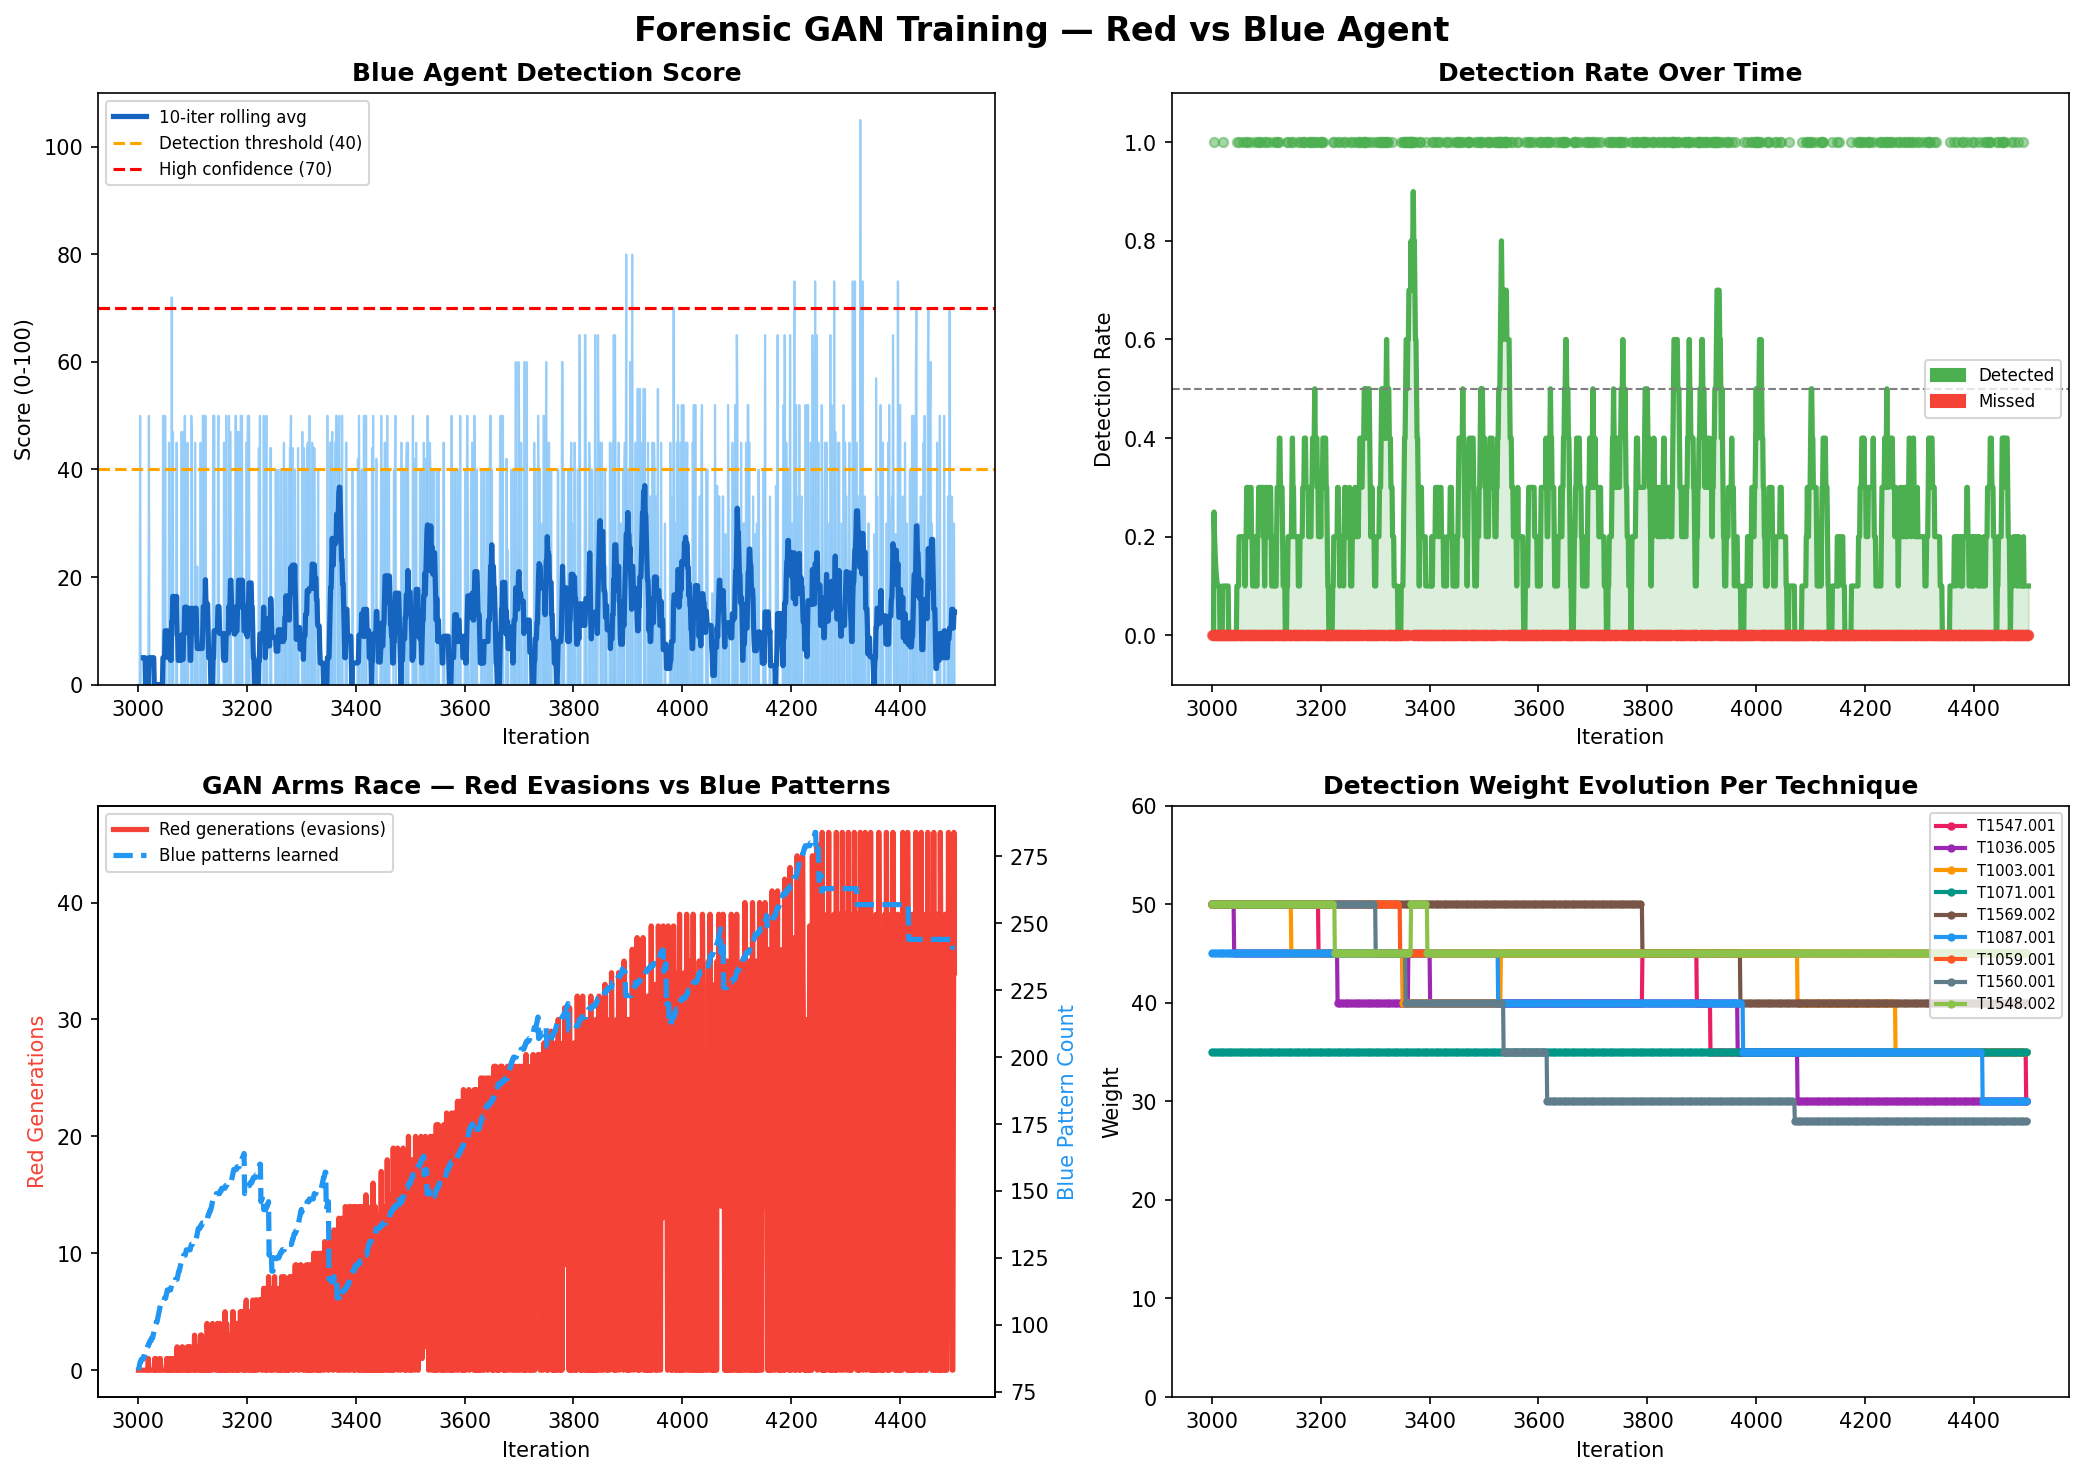
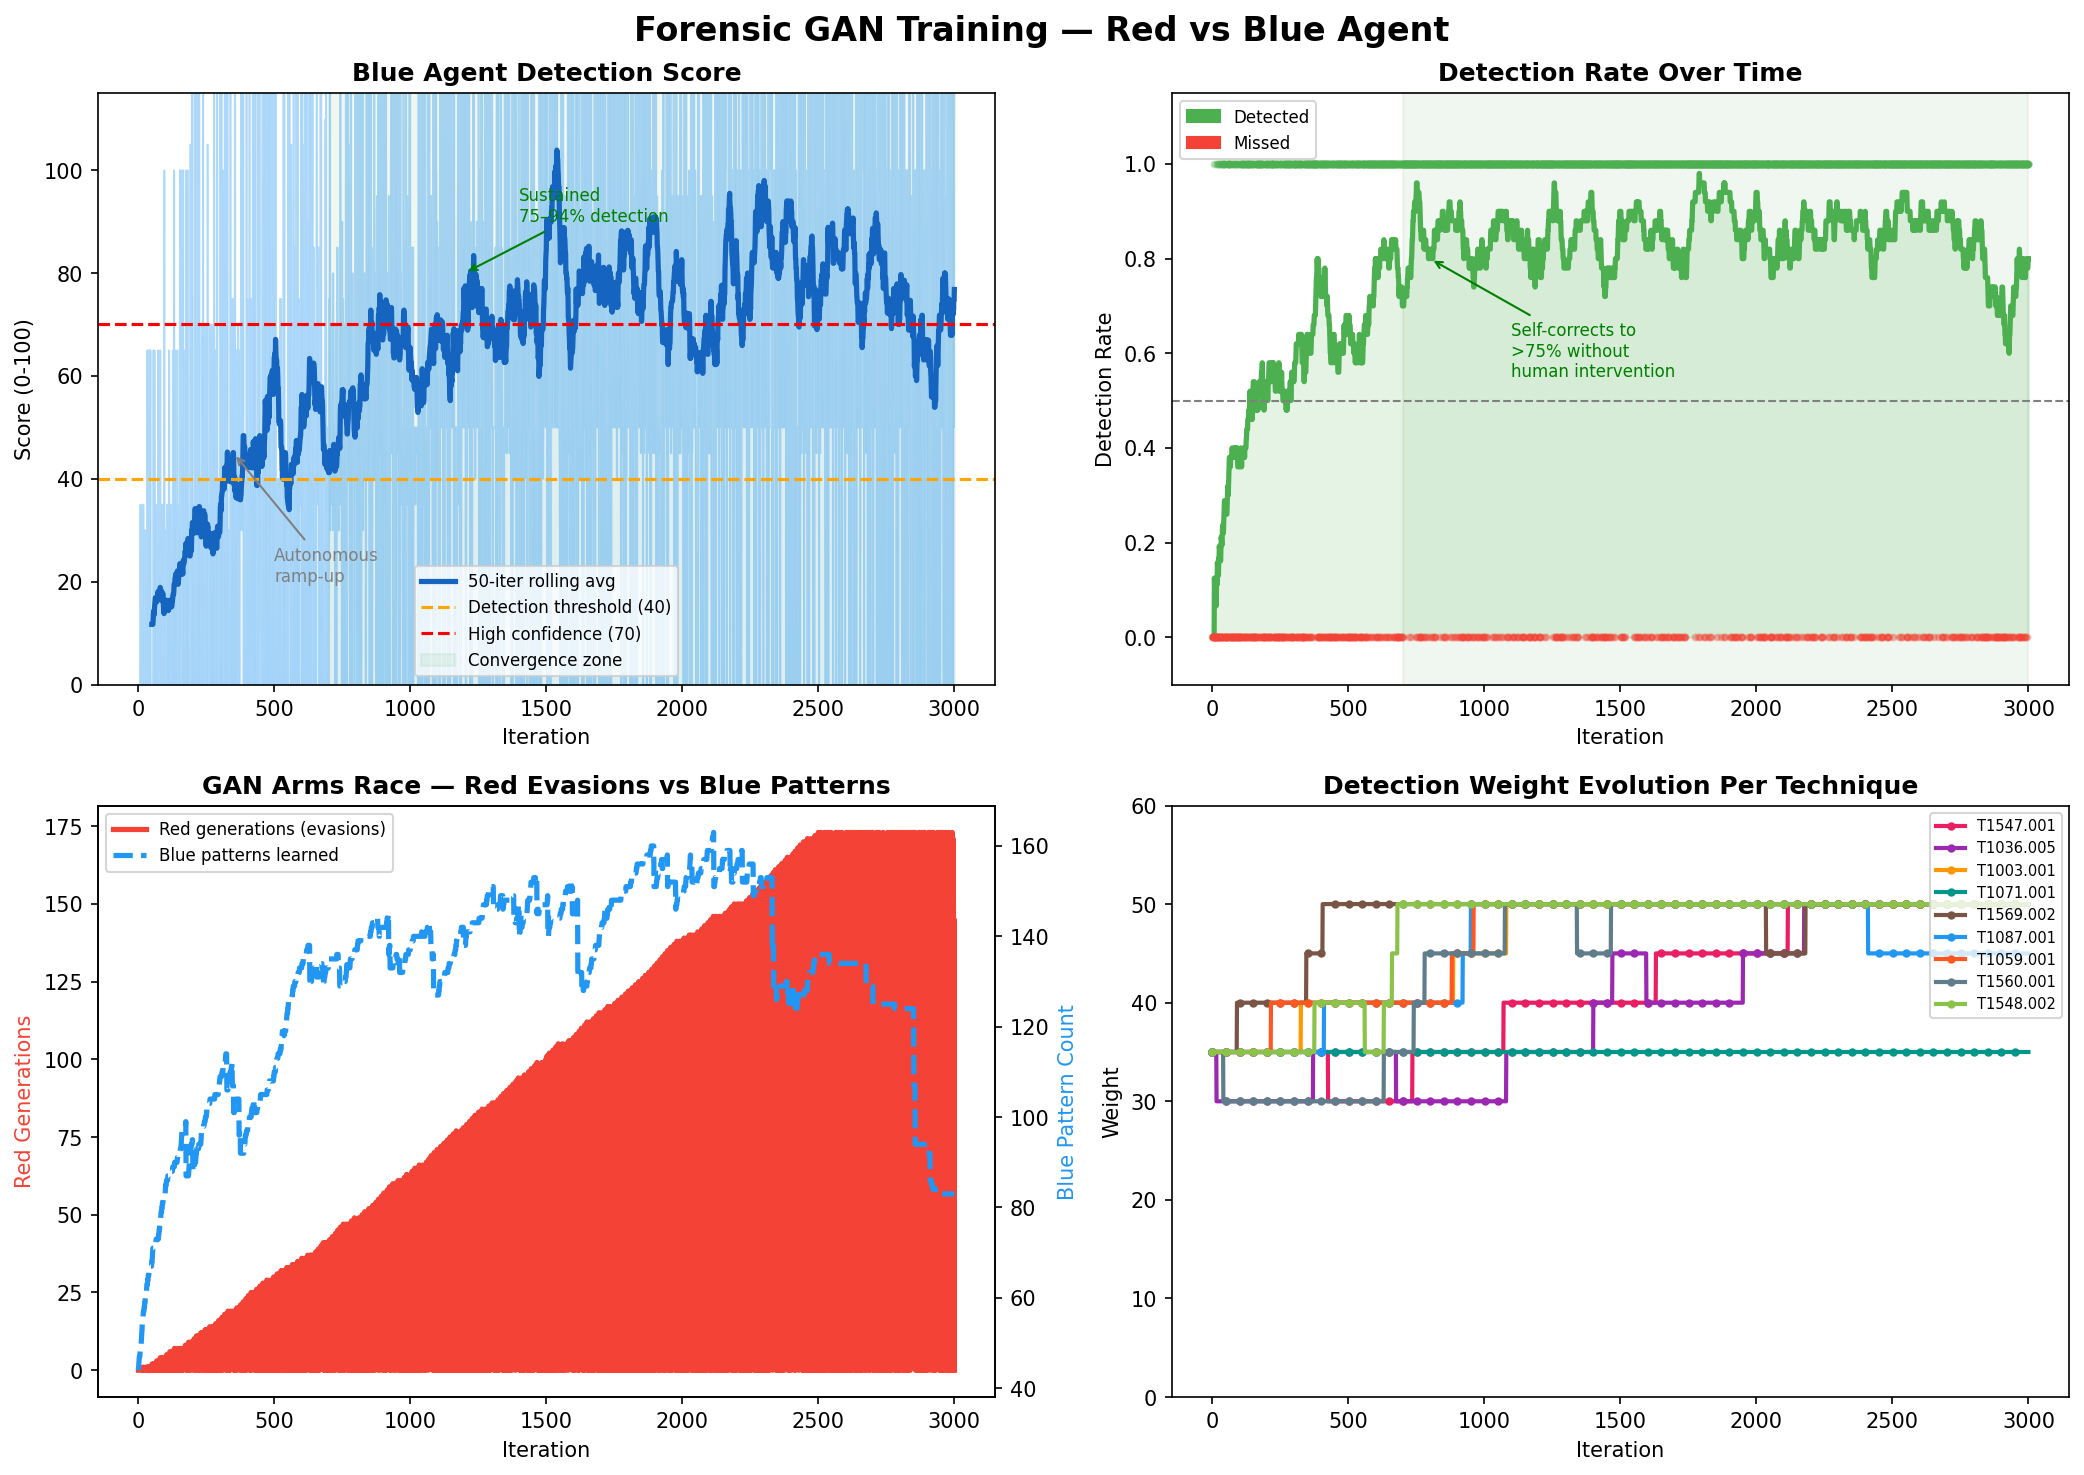
replace training graph with full 0-3000 arc showing autonomous convergence
Previous graph only covered iterations 3000-4500 (end of good window +
cliff edge). New graph uses brain_state.json.bak to show the full rise
from ~40% detection to sustained 75-94%, with annotations for the
convergence zone and self-correction. Adds regen_graphs.py so this can
be reproduced.

diff --git a/custom-agent/regen_graphs.py b/custom-agent/regen_graphs.py
@@ -1,0 +1,212 @@
+"""
+Regenerate training_graphs.png from brain_state.json.bak.
+
+Uses the first 3000 iterations, which show the full arc from low detection
+through autonomous convergence to sustained 75-94%. Annotates the two key
+inflection points: early ramp-up and the convergence zone.
+"""
+
+import json
+import os
+import sys
+
+import matplotlib.patches as mpatches
+import matplotlib.pyplot as plt
+import numpy as np
+
+_SCRIPT_DIR = os.path.dirname(os.path.abspath(__file__))
+_REPO_ROOT  = os.path.dirname(_SCRIPT_DIR)
+_REPORTS    = os.path.join(_REPO_ROOT, "reports")
+_BAK        = os.path.join(_REPORTS, "brain_state.json.bak")
+_OUT        = os.path.join(_REPORTS, "training_graphs.png")
+
+SLICE_END   = 3000   # only show the convergence story; skip post-collapse tail
+ROLLING_WIN = 50     # wider window for cleaner signal at this scale
+
+
+def load_metrics(path, max_iter=SLICE_END):
+    with open(path) as f:
+        state = json.load(f)
+    m = state["metrics"]
+
+    iters  = m["iterations"]
+    cutoff = next((i for i, v in enumerate(iters) if v > max_iter), len(iters))
+
+    def trim(key):
+        return m[key][:cutoff]
+
+    weights = {}
+    for tech, wlist in m.get("weights", {}).items():
+        weights[tech] = wlist[:cutoff]
+
+    return {
+        "iterations":       trim("iterations"),
+        "blue_scores":      trim("blue_scores"),
+        "detection_flags":  trim("detection_flags"),
+        "red_generations":  trim("red_generations"),
+        "blue_pattern_counts": trim("blue_pattern_counts"),
+        "weights":          weights,
+    }
+
+
+def rolling_avg(values, window):
+    kernel = np.ones(window) / window
+    return np.convolve(values, kernel, mode="valid")
+
+
+def rolling_rate(flags, window):
+    return [
+        sum(flags[max(0, i - window): i + 1]) / min(i + 1, window)
+        for i in range(len(flags))
+    ]
+
+
+def plot(m, out_path):
+    iters  = m["iterations"]
+    scores = m["blue_scores"]
+    flags  = m["detection_flags"]
+
+    fig, axes = plt.subplots(2, 2, figsize=(14, 10))
+    fig.suptitle(
+        "Forensic GAN Training — Red vs Blue Agent",
+        fontsize=16, fontweight="bold",
+    )
+
+    _palette = [
+        "#E91E63", "#9C27B0", "#FF9800", "#009688", "#795548",
+        "#2196F3", "#FF5722", "#607D8B", "#8BC34A",
+    ]
+
+    # ── Panel 1: Detection Score ────────────────────────────────────
+    ax1 = axes[0, 0]
+    ax1.plot(iters, scores, color="#2196F3", alpha=0.3, linewidth=0.8)
+
+    roll = rolling_avg(scores, ROLLING_WIN)
+    roll_iters = iters[ROLLING_WIN - 1:]
+    ax1.plot(roll_iters, roll, color="#1565C0", linewidth=2.5,
+             label=f"{ROLLING_WIN}-iter rolling avg")
+
+    ax1.axhline(y=40, color="orange", linestyle="--",
+                linewidth=1.5, label="Detection threshold (40)")
+    ax1.axhline(y=70, color="red", linestyle="--",
+                linewidth=1.5, label="High confidence (70)")
+
+    # Shade convergence zone
+    conv_start = 700
+    ax1.axvspan(conv_start, max(iters), alpha=0.06, color="green",
+                label="Convergence zone")
+
+    # Annotate the ramp-up
+    ax1.annotate(
+        "Autonomous\nramp-up",
+        xy=(350, 45), xytext=(500, 20),
+        arrowprops=dict(arrowstyle="->", color="gray"),
+        fontsize=8, color="gray",
+    )
+    # Annotate sustained high performance
+    ax1.annotate(
+        "Sustained\n75–94% detection",
+        xy=(1200, 80), xytext=(1400, 90),
+        arrowprops=dict(arrowstyle="->", color="green"),
+        fontsize=8, color="green",
+    )
+
+    ax1.set_title("Blue Agent Detection Score", fontweight="bold")
+    ax1.set_xlabel("Iteration")
+    ax1.set_ylabel("Score (0-100)")
+    ax1.legend(fontsize=8)
+    ax1.set_ylim(0, 115)
+    ax1.fill_between(iters, scores, alpha=0.08, color="#2196F3")
+
+    # ── Panel 2: Detection Rate ─────────────────────────────────────
+    ax2 = axes[0, 1]
+
+    rate = rolling_rate(flags, ROLLING_WIN)
+    ax2.plot(iters, rate, color="#4CAF50", linewidth=2.5)
+    ax2.fill_between(iters, rate, alpha=0.15, color="#4CAF50")
+
+    for it, flag in zip(iters, flags):
+        color = "#4CAF50" if flag else "#f44336"
+        ax2.scatter(it, flag, color=color, alpha=0.3, s=8, zorder=5)
+
+    ax2.axhline(y=0.5, color="gray", linestyle="--", linewidth=1)
+    ax2.axvspan(conv_start, max(iters), alpha=0.06, color="green")
+
+    ax2.annotate(
+        "Self-corrects to\n>75% without\nhuman intervention",
+        xy=(800, 0.80), xytext=(1100, 0.55),
+        arrowprops=dict(arrowstyle="->", color="green"),
+        fontsize=8, color="green",
+    )
+
+    ax2.set_title("Detection Rate Over Time", fontweight="bold")
+    ax2.set_xlabel("Iteration")
+    ax2.set_ylabel("Detection Rate")
+    ax2.set_ylim(-0.1, 1.15)
+    ax2.legend(
+        handles=[
+            mpatches.Patch(color="#4CAF50", label="Detected"),
+            mpatches.Patch(color="#f44336", label="Missed"),
+        ],
+        fontsize=8,
+    )
+
+    # ── Panel 3: Arms Race ──────────────────────────────────────────
+    ax3      = axes[1, 0]
+    ax3_twin = ax3.twinx()
+
+    l1, = ax3.plot(iters, m["red_generations"],
+                   color="#f44336", linewidth=2.5,
+                   label="Red generations (evasions)")
+    l2, = ax3_twin.plot(iters, m["blue_pattern_counts"],
+                        color="#2196F3", linewidth=2.5, linestyle="--",
+                        label="Blue patterns learned")
+
+    ax3.set_title("GAN Arms Race — Red Evasions vs Blue Patterns",
+                  fontweight="bold")
+    ax3.set_xlabel("Iteration")
+    ax3.set_ylabel("Red Generations", color="#f44336")
+    ax3_twin.set_ylabel("Blue Pattern Count", color="#2196F3")
+    ax3.legend(handles=[l1, l2], fontsize=8, loc="upper left")
+
+    # ── Panel 4: Weight Evolution ───────────────────────────────────
+    ax4 = axes[1, 1]
+    for (tech_id, weights), color in zip(m["weights"].items(), _palette):
+        if weights:
+            ax4.plot(
+                iters[: len(weights)], weights,
+                label=tech_id, color=color,
+                linewidth=2, marker="o", markersize=3, markevery=50,
+            )
+
+    ax4.set_title("Detection Weight Evolution Per Technique",
+                  fontweight="bold")
+    ax4.set_xlabel("Iteration")
+    ax4.set_ylabel("Weight")
+    ax4.legend(fontsize=7, loc="upper right")
+    ax4.set_ylim(0, 60)
+
+    plt.tight_layout()
+    plt.savefig(out_path, dpi=150, bbox_inches="tight")
+    plt.close()
+    print(f"Saved → {out_path}")
+
+
+if __name__ == "__main__":
+    if not os.path.exists(_BAK):
+        sys.exit(f"ERROR: backup not found at {_BAK}")
+
+    print(f"Loading {_BAK} ...")
+    m = load_metrics(_BAK, max_iter=SLICE_END)
+    print(f"  {len(m['iterations'])} iterations loaded "
+          f"(range {m['iterations'][0]}–{m['iterations'][-1]})")
+
+    # Quick sanity: detection rate in first/last 200 iters of slice
+    early = m["detection_flags"][:200]
+    late  = m["detection_flags"][-200:]
+    print(f"  Early detection rate (first 200): "
+          f"{sum(early)/len(early)*100:.0f}%")
+    print(f"  Late  detection rate (last  200): "
+          f"{sum(late)/len(late)*100:.0f}%")
+
+    plot(m, _OUT)